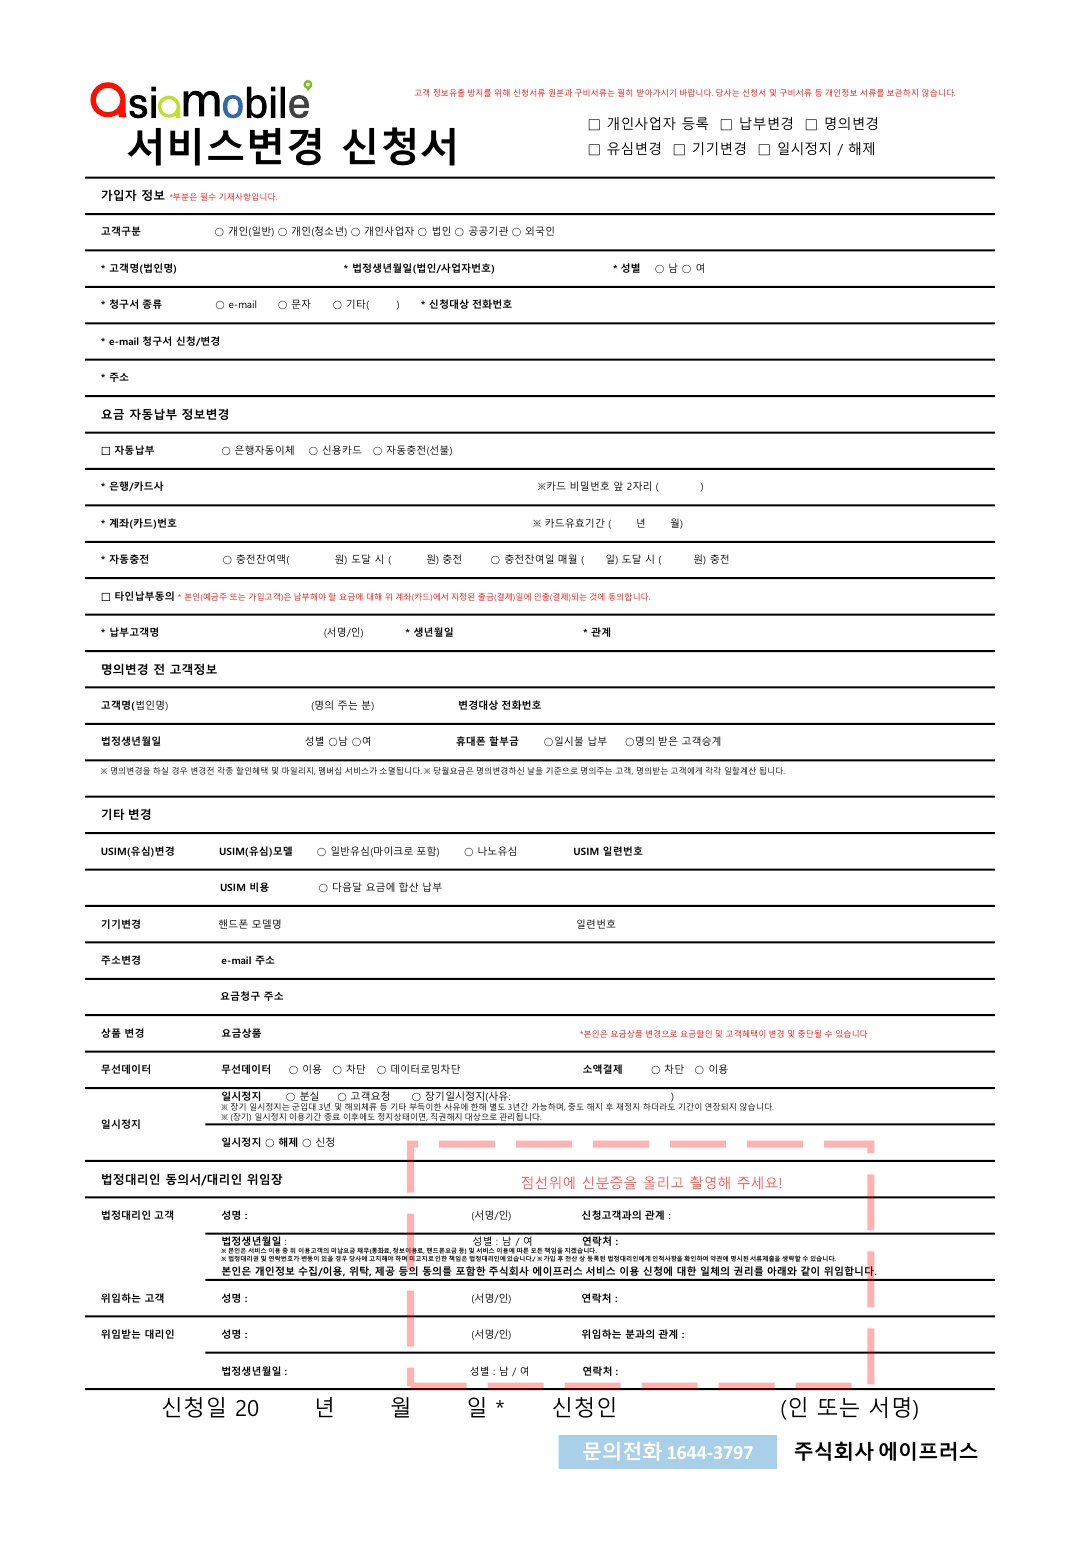
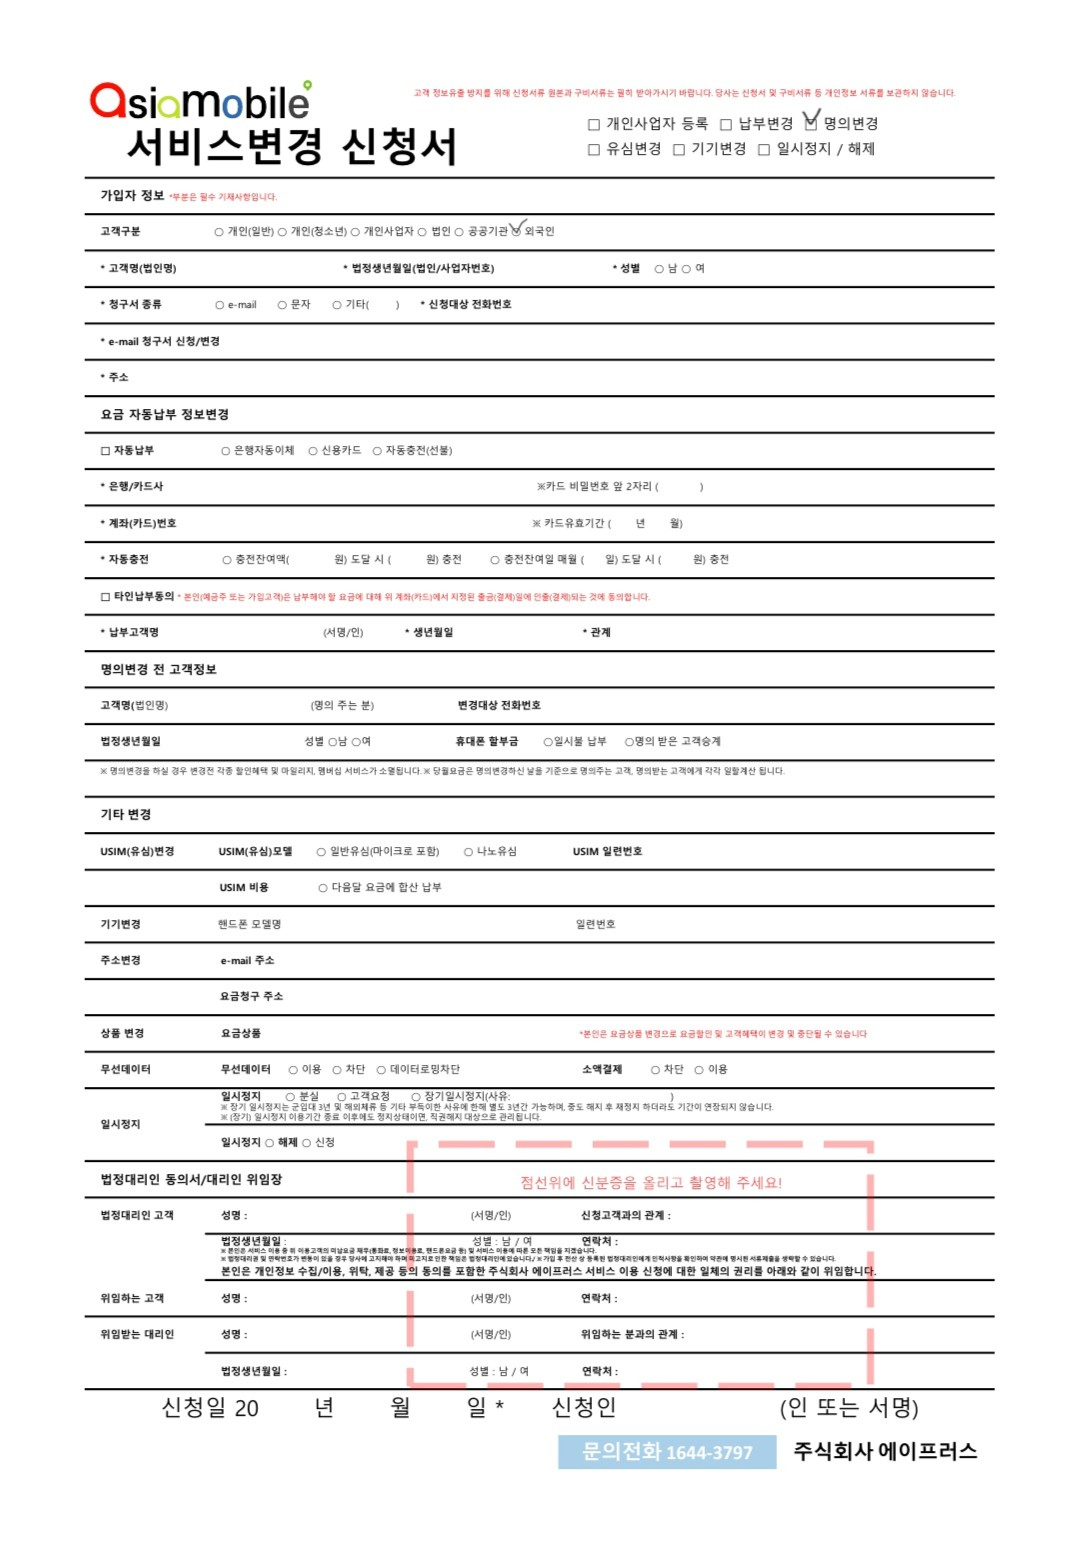
refactor: usePreviewScale 함수의 매개변수 정리 및 코드 포맷 개선 ✨
- 매개변수 선언을 한 줄로 통합하여 가독성 향상
- 불필요한 공백 제거로 코드 정리 🧹

Generated by Copilot

diff --git a/src/hooks/use-preview-scale.ts b/src/hooks/use-preview-scale.ts
@@ -15,10 +15,7 @@ interface UsePreviewScaleOptions {
  * @param options - 스케일 옵션 (최소/최대 스케일, 패딩)
  * @returns 계산된 스케일 값
  */
-export function usePreviewScale(
-  containerRef: RefObject<HTMLElement | null>,
-  options: UsePreviewScaleOptions = {}
-) {
+export function usePreviewScale(containerRef: RefObject<HTMLElement | null>, options: UsePreviewScaleOptions = {}) {
   const { minScale = 0.5, maxScale = 1, padding = 32 } = options;
   const [scale, setScale] = useState(1);
 
@@ -27,13 +24,13 @@ export function usePreviewScale(
 
     const containerWidth = containerRef.current.clientWidth;
     const availableWidth = containerWidth - padding * 2;
-    
+
     // A4 너비에 맞춰 스케일 계산
     let newScale = availableWidth / A4_WIDTH;
-    
+
     // 최소/최대 스케일 제한
     newScale = Math.max(minScale, Math.min(maxScale, newScale));
-    
+
     setScale(newScale);
   }, [containerRef, minScale, maxScale, padding]);
 
